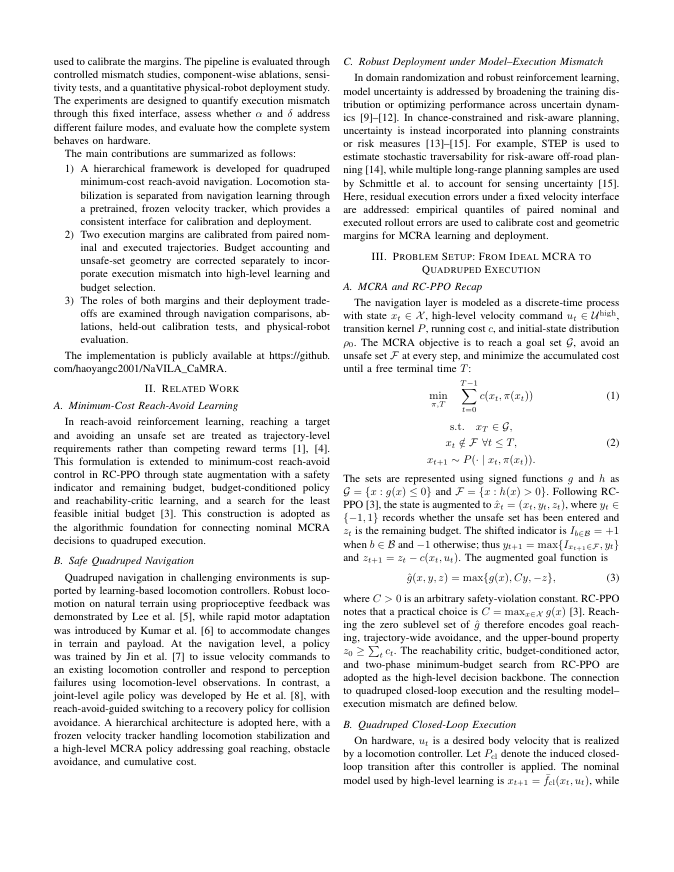
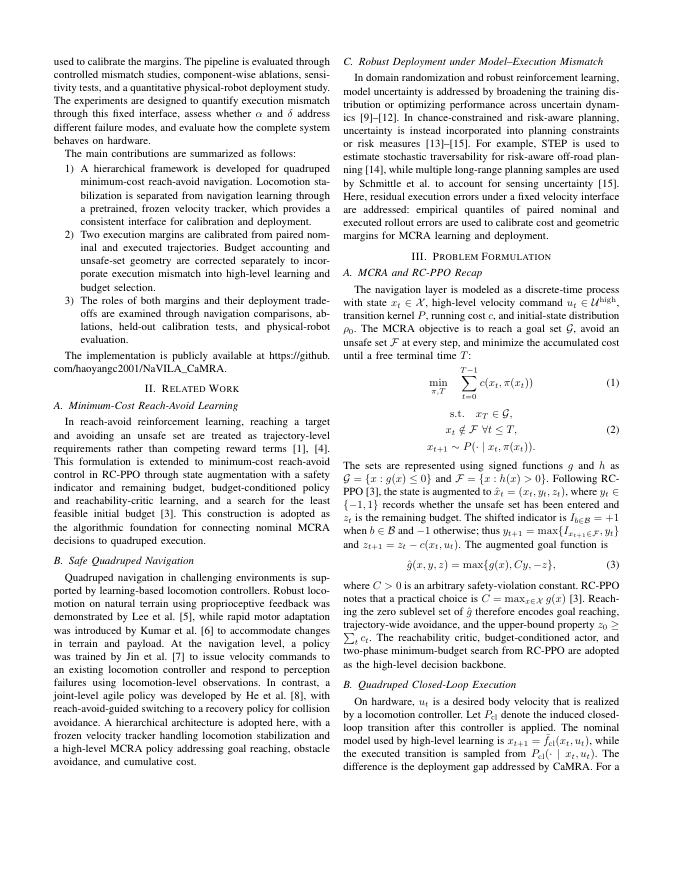
精简第三章标题并删除冗余过渡说明

Changed region(s): [[0.4985, 0.2787, 0.9347, 0.8979], [0.9036, 0.4335, 0.9347, 0.4644]]

diff --git a/CCDC/latex/1029/main.tex b/CCDC/latex/1029/main.tex
@@ -179,7 +179,7 @@ Here, residual execution errors under a fixed velocity interface are addressed:
 empirical quantiles of paired nominal and executed rollout errors are
 used to calibrate cost and geometric margins for MCRA learning and deployment.
 
-\section{Problem Setup: From Ideal MCRA to Quadruped Execution}
+\section{Problem Formulation}
 \label{sec:problem_setup}
 \subsection{MCRA and RC-PPO Recap}
 The navigation layer is modeled as a discrete-time process with state $x_t\in
@@ -217,8 +217,7 @@ practical choice is $C=\max_{x\in\mathcal{X}}g(x)$~\cite{so2024}. Reaching the
 zero sublevel set of $\hat{g}$ therefore encodes goal reaching, trajectory-wide
 avoidance, and the upper-bound property $z_0\geq\sum_t c_t$. The reachability critic,
 budget-conditioned actor, and two-phase minimum-budget search from RC-PPO are
-adopted as the high-level decision backbone. The connection to quadruped closed-loop execution and the resulting
-model--execution mismatch are defined below.
+adopted as the high-level decision backbone.
 
 \subsection{Quadruped Closed-Loop Execution}
 On hardware, $u_t$ is a desired body velocity that is realized by a locomotion
